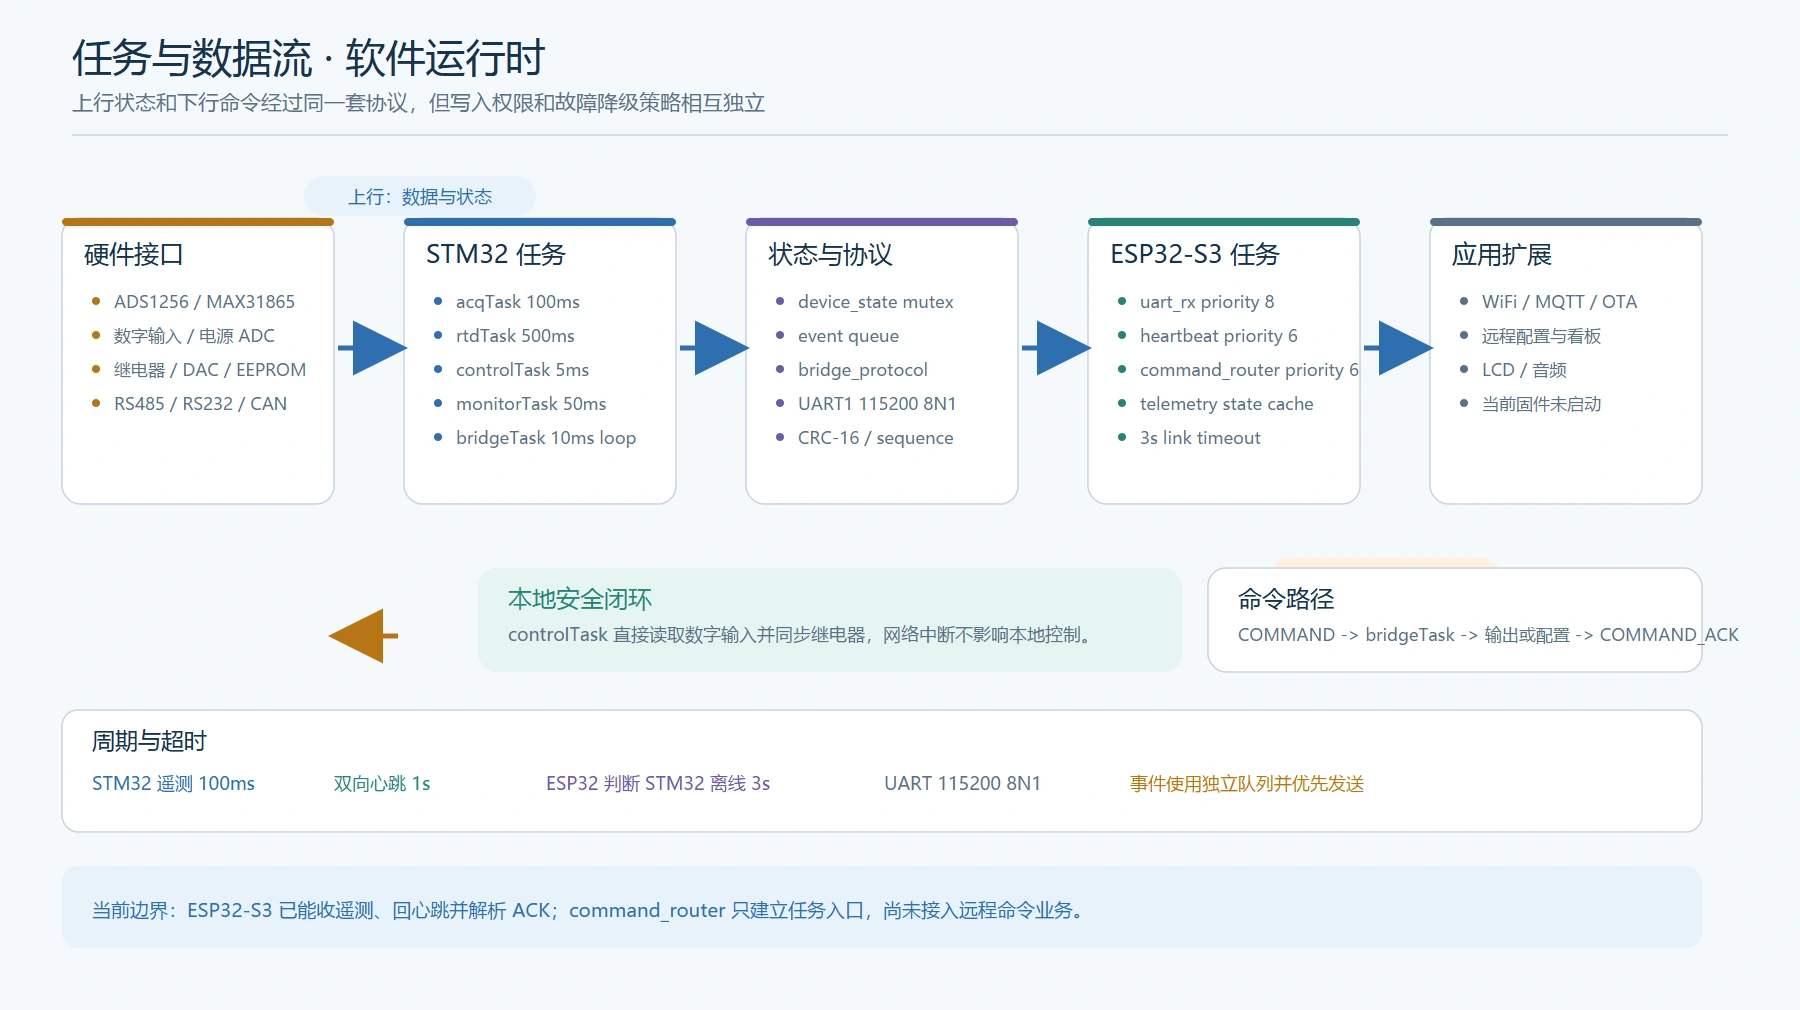
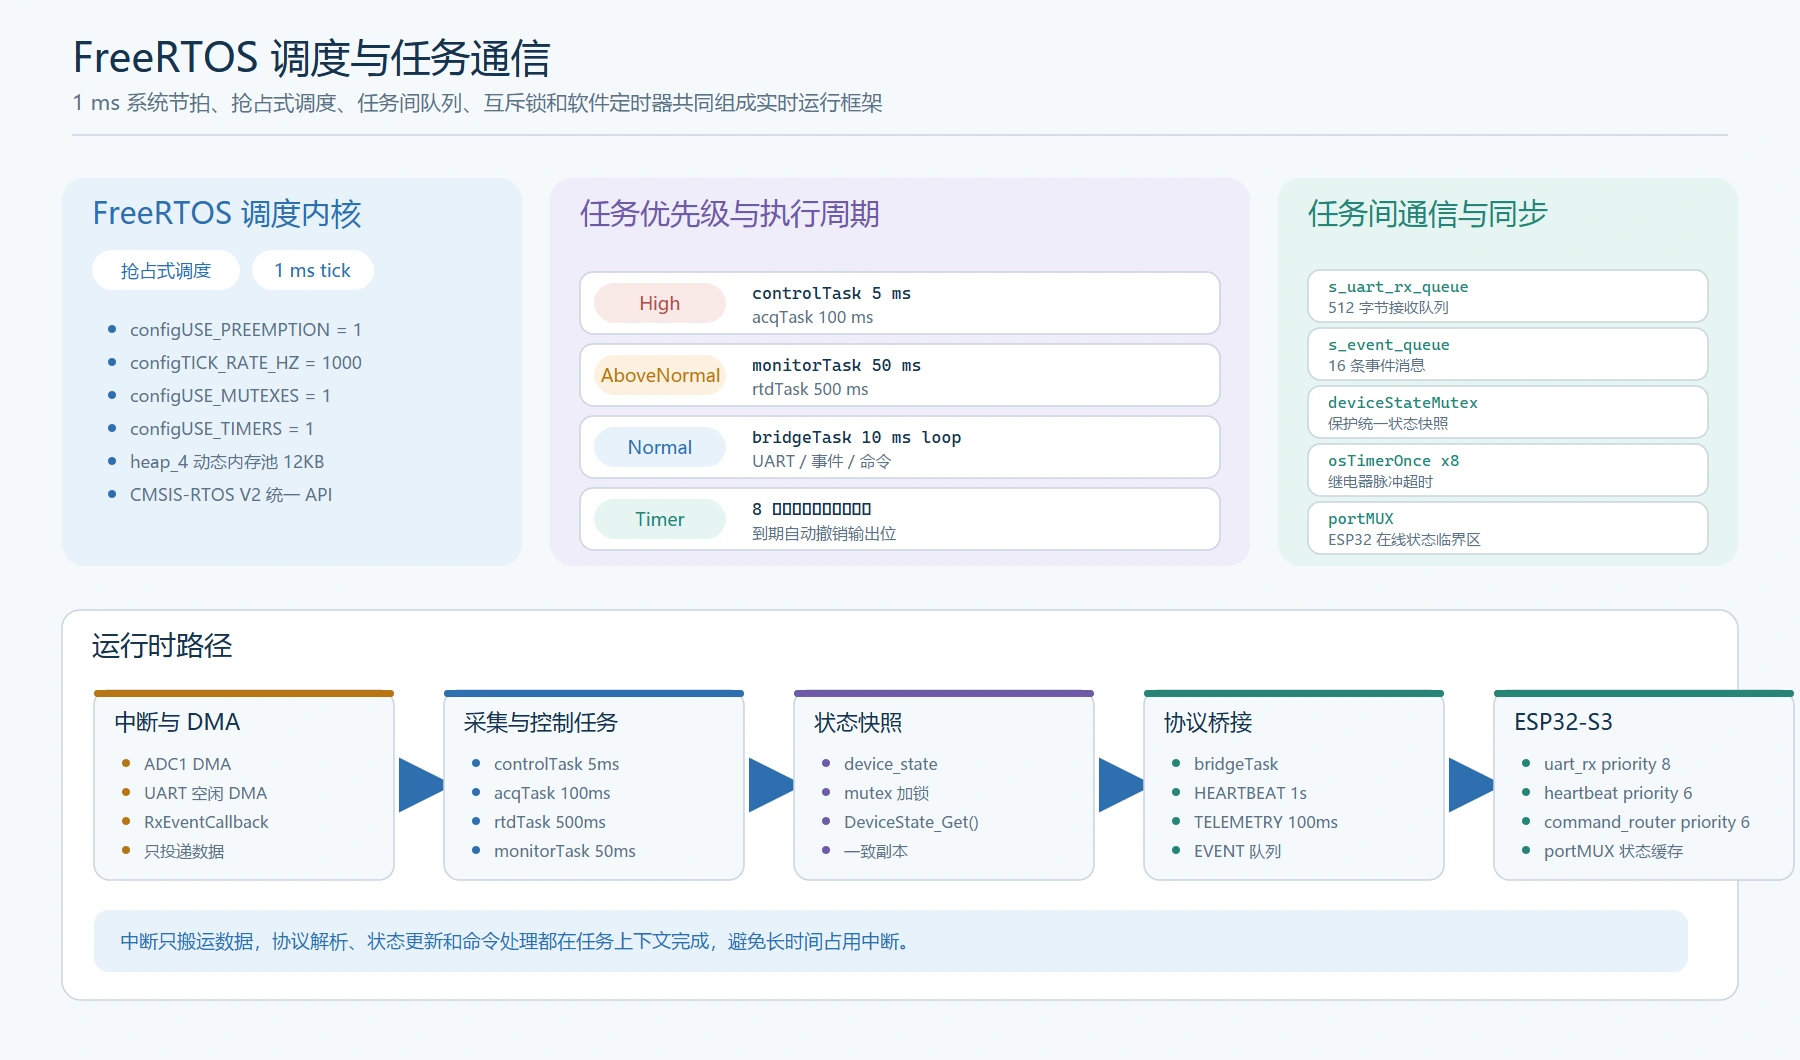
Highlight FreeRTOS design on project homepage

diff --git a/Documentation/render_architecture.py b/Documentation/render_architecture.py
@@ -626,86 +626,93 @@ def software_architecture():
 
 
 def software_task_flow():
-    width, height = 1800, 1010
+    width, height = 1800, 1060
     parts = []
     header(
         parts,
         width,
-        "任务与数据流 · 软件运行时",
-        "上行状态和下行命令经过同一套协议，但写入权限和故障降级策略相互独立",
+        "FreeRTOS 调度与任务通信",
+        "1 ms 系统节拍、抢占式调度、任务间队列、互斥锁和软件定时器共同组成实时运行框架",
     )
 
-    columns = [
-        (
-            62,
-            "硬件接口",
-            COLORS["amber"],
-            ["ADS1256 / MAX31865", "数字输入 / 电源 ADC", "继电器 / DAC / EEPROM", "RS485 / RS232 / CAN"],
-        ),
-        (
-            404,
-            "STM32 任务",
-            COLORS["blue"],
-            ["acqTask  100ms", "rtdTask  500ms", "controlTask  5ms", "monitorTask  50ms", "bridgeTask  10ms loop"],
-        ),
-        (
-            746,
-            "状态与协议",
-            COLORS["violet"],
-            ["device_state mutex", "event queue", "bridge_protocol", "UART1  115200 8N1", "CRC-16 / sequence"],
-        ),
-        (
-            1088,
-            "ESP32-S3 任务",
-            COLORS["teal"],
-            ["uart_rx  priority 8", "heartbeat  priority 6", "command_router  priority 6", "telemetry state cache", "3s link timeout"],
-        ),
-        (
-            1430,
-            "应用扩展",
-            COLORS["slate"],
-            ["WiFi / MQTT / OTA", "远程配置与看板", "LCD / 音频", "当前固件未启动"],
-        ),
+    add_rect(parts, 62, 178, 460, 388, COLORS["blue_fill"], radius=22)
+    add_text(parts, 92, 224, "FreeRTOS 调度内核", 30, COLORS["blue"], weight=500)
+    add_badge(parts, 92, 250, "抢占式调度", COLORS["white"], COLORS["blue"], 148)
+    add_badge(parts, 252, 250, "1 ms tick", COLORS["white"], COLORS["blue"], 122)
+    add_list(
+        parts,
+        112,
+        336,
+        [
+            "configUSE_PREEMPTION = 1",
+            "configTICK_RATE_HZ = 1000",
+            "configUSE_MUTEXES = 1",
+            "configUSE_TIMERS = 1",
+            "heap_4 动态内存池 12KB",
+            "CMSIS-RTOS V2 统一 API",
+        ],
+        COLORS["blue"],
+        33,
+        17,
+    )
+
+    add_rect(parts, 550, 178, 700, 388, COLORS["violet_fill"], radius=22)
+    add_text(parts, 580, 224, "任务优先级与执行周期", 30, COLORS["violet"], weight=500)
+    priority_rows = [
+        ("High", "controlTask   5 ms", "acqTask   100 ms", COLORS["red"], COLORS["red_fill"]),
+        ("AboveNormal", "monitorTask   50 ms", "rtdTask   500 ms", COLORS["amber"], COLORS["amber_fill"]),
+        ("Normal", "bridgeTask   10 ms loop", "UART / 事件 / 命令", COLORS["blue"], COLORS["blue_fill"]),
+        ("Timer", "8 个一次性继电器定时器", "到期自动撤销输出位", COLORS["teal"], COLORS["teal_fill"]),
     ]
+    y = 272
+    for priority, left, right, color, fill in priority_rows:
+        add_rect(parts, 580, y, 640, 62, COLORS["white"], COLORS["line"], 13)
+        add_badge(parts, 594, y + 11, priority, fill, color, 132)
+        add_text(parts, 752, y + 27, left, 17, COLORS["ink"], weight=500, font=MONO)
+        add_text(parts, 752, y + 51, right, 16, COLORS["muted"])
+        y += 72
 
-    for x, title, color, lines in columns:
-        add_rect(parts, x, 218, 272, 286, COLORS["white"], COLORS["line"], 18)
-        add_rect(parts, x, 218, 272, 8, color, radius=4)
-        add_text(parts, x + 22, 263, title, 25, COLORS["ink"], weight=500)
-        add_list(parts, x + 34, 308, lines, color, 34, 17)
+    add_rect(parts, 1278, 178, 460, 388, COLORS["teal_fill"], radius=22)
+    add_text(parts, 1308, 224, "任务间通信与同步", 30, COLORS["teal"], weight=500)
+    ipc_items = [
+        ("s_uart_rx_queue", "512 字节接收队列"),
+        ("s_event_queue", "16 条事件消息"),
+        ("deviceStateMutex", "保护统一状态快照"),
+        ("osTimerOnce x8", "继电器脉冲超时"),
+        ("portMUX", "ESP32 在线状态临界区"),
+    ]
+    y = 270
+    for title, detail in ipc_items:
+        add_rect(parts, 1308, y, 400, 52, COLORS["white"], COLORS["line"], 12)
+        add_text(parts, 1328, y + 22, title, 16, COLORS["teal"], weight=500, font=MONO)
+        add_text(parts, 1328, y + 43, detail, 15, COLORS["muted"])
+        y += 58
 
-    add_badge(parts, 304, 176, "上行：数据与状态", COLORS["blue_fill"], COLORS["blue"], 232)
-    for i in range(4):
-        x = 62 + i * 342
-        add_line(parts, x + 276, 348, x + 336, 348, COLORS["blue"], 5, marker=True)
+    add_rect(parts, 62, 610, 1676, 390, COLORS["white"], COLORS["line"], 18)
+    add_text(parts, 92, 655, "运行时路径", 28, COLORS["ink"], weight=500)
+    path_cards = [
+        ("中断与 DMA", COLORS["amber"], ["ADC1 DMA", "UART 空闲 DMA", "RxEventCallback", "只投递数据"]),
+        ("采集与控制任务", COLORS["blue"], ["controlTask 5ms", "acqTask 100ms", "rtdTask 500ms", "monitorTask 50ms"]),
+        ("状态快照", COLORS["violet"], ["device_state", "mutex 加锁", "DeviceState_Get()", "一致副本"]),
+        ("协议桥接", COLORS["teal"], ["bridgeTask", "HEARTBEAT 1s", "TELEMETRY 100ms", "EVENT 队列"]),
+        ("ESP32-S3", COLORS["green"] if "green" in COLORS else COLORS["teal"], ["uart_rx  priority 8", "heartbeat  priority 6", "command_router  priority 6", "portMUX 状态缓存"]),
+    ]
+    x = 94
+    for title, color, lines in path_cards:
+        add_rect(parts, x, 690, 300, 190, COLORS["paper"], COLORS["line"], 15)
+        add_rect(parts, x, 690, 300, 7, color, radius=3)
+        add_text(parts, x + 20, 730, title, 22, COLORS["ink"], weight=500)
+        add_list(parts, x + 32, 770, lines, color, 29, 16)
+        if x < 1394:
+            add_line(parts, x + 306, 785, x + 350, 785, COLORS["blue"], 5, marker=True)
+        x += 350
 
-    add_badge(parts, 1270, 558, "下行：命令与确认", COLORS["amber_fill"], COLORS["amber"], 232)
-    for i in (4, 3, 2, 1):
-        x = 62 + i * 342
-        add_line(parts, x - 6, 636, x - 66, 636, COLORS["amber"], 5, marker=True)
-
-    add_rect(parts, 478, 568, 704, 104, COLORS["teal_fill"], radius=18)
-    add_text(parts, 508, 607, "本地安全闭环", 24, COLORS["teal"], weight=500)
-    add_text(parts, 508, 641, "controlTask 直接读取数字输入并同步继电器，网络中断不影响本地控制。", 18, COLORS["muted"])
-
-    add_rect(parts, 1208, 568, 494, 104, COLORS["white"], COLORS["line"], 18)
-    add_text(parts, 1238, 607, "命令路径", 24, COLORS["ink"], weight=500)
-    add_text(parts, 1238, 641, "COMMAND -> bridgeTask -> 输出或配置 -> COMMAND_ACK", 17, COLORS["muted"])
-
-    add_rect(parts, 62, 710, 1640, 122, COLORS["white"], COLORS["line"], 16)
-    add_text(parts, 92, 749, "周期与超时", 23, COLORS["ink"], weight=500)
-    add_text(parts, 92, 790, "STM32 遥测 100ms", 18, COLORS["blue"])
-    add_text(parts, 334, 790, "双向心跳 1s", 18, COLORS["teal"])
-    add_text(parts, 546, 790, "ESP32 判断 STM32 离线 3s", 18, COLORS["violet"])
-    add_text(parts, 884, 790, "UART 115200 8N1", 18, COLORS["muted"])
-    add_text(parts, 1130, 790, "事件使用独立队列并优先发送", 18, COLORS["amber"])
-
-    add_rect(parts, 62, 866, 1640, 82, COLORS["blue_fill"], radius=16)
+    add_rect(parts, 94, 910, 1594, 62, COLORS["blue_fill"], radius=14)
     add_text(
         parts,
-        92,
-        917,
-        "当前边界：ESP32-S3 已能收遥测、回心跳并解析 ACK；command_router 只建立任务入口，尚未接入远程命令业务。",
+        120,
+        948,
+        "中断只搬运数据，协议解析、状态更新和命令处理都在任务上下文完成，避免长时间占用中断。",
         19,
         COLORS["blue"],
     )
@@ -717,8 +724,8 @@ def software_task_flow():
         svg_document(
             width,
             height,
-            "任务与数据流",
-            "STM32 与 ESP32-S3 的任务周期、数据路径和命令确认路径。",
+            "FreeRTOS 调度与任务通信",
+            "STM32 与 ESP32-S3 的 FreeRTOS 调度、任务优先级、队列、互斥锁和软件定时器。",
             parts,
         ),
     )

diff --git a/Software/README.md b/Software/README.md
@@ -25,6 +25,18 @@
 | 网络 | 不直接联网 | WiFi、MQTT 和 OTA 留作扩展 |
 | 板间连接 | UART1 | UART1 |
 
+## FreeRTOS 运行框架
+
+STM32 使用 FreeRTOS 和 CMSIS-RTOS V2。系统节拍为 `1 ms`，开启抢占式调度。任务按实时性设置为 `High`、`AboveNormal` 和 `Normal`。
+
+| 配置 | 值 | 作用 |
+| --- | ---: | --- |
+| `configTICK_RATE_HZ` | `1000` | 提供 1 ms 调度节拍 |
+| `configUSE_PREEMPTION` | `1` | 高优先级任务就绪后立即抢占 |
+| `configUSE_MUTEXES` | `1` | 保护状态快照 |
+| `configUSE_TIMERS` | `1` | 执行继电器脉冲超时 |
+| `configTOTAL_HEAP_SIZE` | `12288` | 为任务、队列、互斥锁和定时器提供动态内存 |
+
 ## 总体结构
 
 ```text
@@ -109,17 +121,25 @@ bridge_uart -> STM32 bridge_uart -> command handler
 
 STM32 使用 CubeMX 生成 HAL 初始化，并配置 FreeRTOS。任务按职责划分，优先级从高到低如下。
 
-| 任务 | 典型周期 | 职责 |
-| --- | --- | --- |
-| `control_task` | 1 ms 到 5 ms | 数字输入消抖、继电器状态机和安全联锁 |
-| `acq_task` | DRDY 触发 | ADS1256 采样、原值校准和状态发布 |
-| `rtd_task` | 100 ms | MAX31865 读取和故障检测 |
-| `bridge_task` | 事件触发 | UART 帧解析、心跳、遥测和命令处理 |
-| `field_task` | 事件触发 | RS485、RS232 和 CAN 数据交换 |
-| `storage_task` | 按请求 | EEPROM 读取、写入和校验 |
-| `monitor_task` | 50 ms | 24V、5V、堆栈和错误计数 |
+| 任务 | FreeRTOS 优先级 | 周期 | 职责 |
+| --- | --- | ---: | --- |
+| `controlTask` | `High` | 5 ms | 数字输入消抖、继电器状态同步和输入事件 |
+| `acqTask` | `High` | 100 ms | ADS1256 八通道采样和状态发布 |
+| `monitorTask` | `AboveNormal` | 50 ms | 24V、5V 监测和状态灯 |
+| `rtdTask` | `AboveNormal` | 500 ms | MAX31865 读取和故障检测 |
+| `bridgeTask` | `Normal` | 10 ms 循环 | UART 帧解析、心跳、遥测、事件和命令处理 |
 
-高优先级任务只做时间敏感工作。EEPROM 写入和网络相关处理放在低优先级任务。
+中断和任务之间通过队列解耦。UART 空闲 DMA 回调只把接收字节投递到 `s_uart_rx_queue`，协议解析和命令处理由 `bridgeTask` 完成。
+
+## 任务间通信
+
+| 机制 | 配置 | 用途 |
+| --- | ---: | --- |
+| `s_uart_rx_queue` | 512 字节 | 在中断和 `bridgeTask` 之间传递 UART 数据 |
+| `s_event_queue` | 16 条消息 | 传递输入变化和继电器变化事件 |
+| `deviceStateMutex` | 普通互斥锁 | 保护统一设备快照 |
+| `osTimerOnce x8` | 8 个 | 继电器脉冲到期后撤销输出 |
+| `portMUX` | ESP32 临界区 | 保护在线状态和最后接收时间 |
 
 ## ESP32-S3 任务
 
